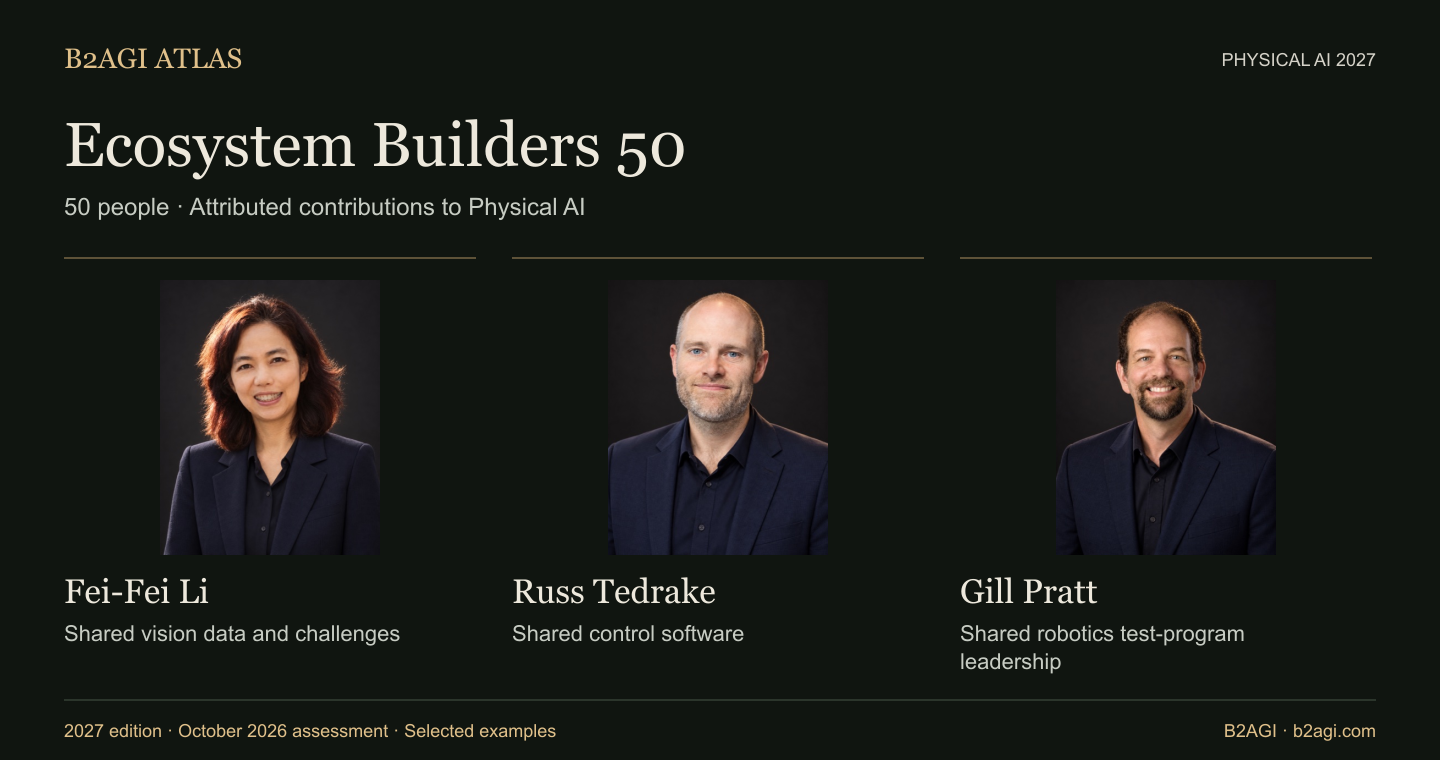
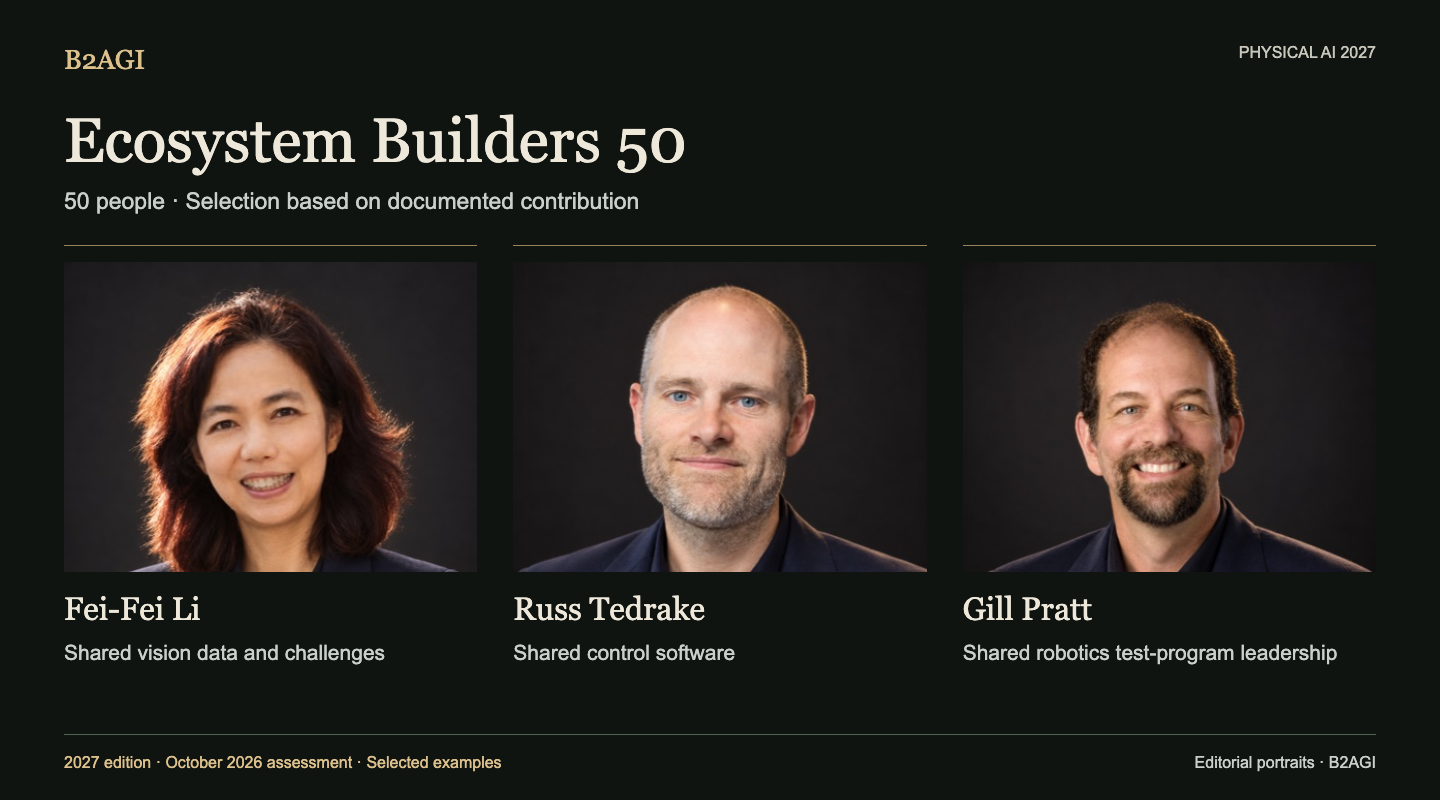
Refine people edition covers around faces and align English credits

diff --git a/ECOSYSTEM_BUILDERS_50.md b/ECOSYSTEM_BUILDERS_50.md
@@ -4,13 +4,13 @@
 
 ![Ecosystem Builders 50: examples of documented contributions by selected people.](assets/ecosystem-builders-50-overview.png)
 
-*Studio portrait artwork from the existing B2AGI edition. [Image credits](PEOPLE_IMAGE_CREDITS.md).*
+*Editorial portrait artwork · [Image credits](PEOPLE_IMAGE_CREDITS.md).*
 
 **2027 edition · October 2026 assessment · First published 12 October 2026 · v1.0**
 
 Ecosystem Builders 50 examines the shared capabilities that allow others to develop and use Physical AI: tools, education, standards, finance, research facilities and testing programmes. Each profile identifies the person’s documented contribution.
 
-[Explore all 50 people](#people-directory) · [Influence 50](INFLUENCE_50.md) · [Ecosystem Builders 50](ECOSYSTEM_BUILDERS_50.md) · [Selection method](METHODOLOGY.md#people-selection)
+[Explore all 50 people](#people-directory) · [Influence 50](INFLUENCE_50.md) · [Selection method](METHODOLOGY.md#people-selection) · [Download data](#research-and-data)
 
 ### Selected contributions
 
@@ -20,7 +20,7 @@ Ecosystem Builders 50 examines the shared capabilities that allow others to deve
 | E022 | [Russ Tedrake](people/russ-tedrake--e022/README.md) | Shared control software |
 | P010 | [Gill Pratt](people/gill-pratt--p010/README.md) | Shared robotics test-program leadership |
 
-The groups describe the contribution assessed for this edition. They are not numerical rankings of prestige. Record IDs remain stable across group changes.
+Group membership follows the contribution assessed for this edition. Section headings identify the group; record IDs remain stable across group changes.
 
 ## People directory
 
@@ -79,7 +79,7 @@ The groups describe the contribution assessed for this edition. They are not num
 
 ## Research and data
 
-Profiles preserve the selection rationale, evidence scope and source references. Joint work retains shared attribution; a contribution to one programme does not establish sole authorship of the wider field.
+Profiles document the selection rationale, evidence scope and original sources, with shared attribution for joint work.
 
 [Group-assignment comparisons](PEOPLE_SELECTIONS.md) · [JSON](data/ecosystem-builders-50.en.json) · [CSV](data/ecosystem-builders-50.en.csv) · [Current 100](CURRENT_100.md) · [Next 100](NEXT_100.md)
 

diff --git a/INFLUENCE_50.md b/INFLUENCE_50.md
@@ -4,13 +4,13 @@
 
 ![Influence 50: examples of documented contributions by selected people.](assets/influence-50-overview.png)
 
-*Studio portrait artwork from the existing B2AGI edition. [Image credits](PEOPLE_IMAGE_CREDITS.md).*
+*Editorial portrait artwork · [Image credits](PEOPLE_IMAGE_CREDITS.md).*
 
 **2027 edition · October 2026 assessment · First published 12 October 2026 · v1.0**
 
 Influence 50 examines attributed technical methods, robot designs, task-specific research leadership and operating or strategic decisions. Each profile identifies the work for which the person is selected and retains the contribution of collaborators.
 
-[Explore all 50 people](#people-directory) · [Influence 50](INFLUENCE_50.md) · [Ecosystem Builders 50](ECOSYSTEM_BUILDERS_50.md) · [Selection method](METHODOLOGY.md#people-selection)
+[Explore all 50 people](#people-directory) · [Ecosystem Builders 50](ECOSYSTEM_BUILDERS_50.md) · [Selection method](METHODOLOGY.md#people-selection) · [Download data](#research-and-data)
 
 ### Selected contributions
 
@@ -20,7 +20,7 @@ Influence 50 examines attributed technical methods, robot designs, task-specific
 | E019 | [Oh Jun Ho](people/oh-jun-ho--e019/README.md) | DRC-HUBO joint research leadership |
 | P013 | [Jensen Huang](people/jensen-huang--p013/README.md) | Robotics platform strategy |
 
-The groups describe the contribution assessed for this edition. They are not numerical rankings of prestige. Record IDs remain stable across group changes.
+Group membership follows the contribution assessed for this edition. Section headings identify the group; record IDs remain stable across group changes.
 
 ## People directory
 
@@ -79,7 +79,7 @@ The groups describe the contribution assessed for this edition. They are not num
 
 ## Research and data
 
-Profiles preserve the selection rationale, evidence scope and source references. Joint work retains shared attribution; a contribution to one programme does not establish sole authorship of the wider field.
+Profiles document the selection rationale, evidence scope and original sources, with shared attribution for joint work.
 
 [Group-assignment comparisons](PEOPLE_SELECTIONS.md) · [JSON](data/influence-50.en.json) · [CSV](data/influence-50.en.csv) · [Current 100](CURRENT_100.md) · [Next 100](NEXT_100.md)
 

diff --git a/PEOPLE_IMAGE_CREDITS.md b/PEOPLE_IMAGE_CREDITS.md
@@ -1,12 +1,12 @@
 # People image credits
 
-The overview uses existing B2AGI studio portrait artwork adapted from source photographs. These are editorial portraits; selection does not imply endorsement. Original publishers retain their image rights.
+The overview features B2AGI editorial portrait artwork adapted from source photographs. The source references below identify the materials used for each portrait. Original publishers retain their image rights.
 
 | Record | Person | Source credit | Source page |
 | --- | --- | --- | --- |
 | E006 | Chelsea Finn | ai.stanford.edu | [Source](https://ai.stanford.edu/~cbfinn/_files/dissertation.pdf) |
-| E019 | Oh Jun Ho | KAIST 연구원 2016 연례보고서, PDF 6쪽 | [Source](https://kis.kaist.ac.kr/layouts/jit_basic_resources/common/images/data/2016KAIST%20REPORT_kor.pdf) |
+| E019 | Oh Jun Ho | KAIST Institute Annual Report 2016, PDF p. 6 | [Source](https://kis.kaist.ac.kr/layouts/jit_basic_resources/common/images/data/2016KAIST%20REPORT_kor.pdf) |
 | P013 | Jensen Huang | nvidianews.nvidia.com | [Source](https://nvidianews.nvidia.com/news/nvidia-powers-humanoid-robot-industry-with-cloud-to-robot-computing-platforms-for-physical-ai) |
 | E013 | Fei-Fei Li | profiles.stanford.edu | [Source](https://www.image-net.org/challenges/LSVRC/2010/) |
-| E022 | Russ Tedrake | MIT CSAIL 공개 논문 Marcucci19.pdf, 16쪽; 촬영자 미확인 | [Source](https://groups.csail.mit.edu/robotics-center/public_papers/Marcucci19.pdf) |
-| P010 | Gill Pratt | global.toyota; 촬영자 미확인 | [Source](https://global.toyota/en/company/profile/executives/fellow/gill_a_pratt.html) |
+| E022 | Russ Tedrake | MIT CSAIL, Marcucci19.pdf, p. 16; photographer unconfirmed | [Source](https://groups.csail.mit.edu/robotics-center/public_papers/Marcucci19.pdf) |
+| P010 | Gill Pratt | global.toyota; photographer unconfirmed | [Source](https://global.toyota/en/company/profile/executives/fellow/gill_a_pratt.html) |
